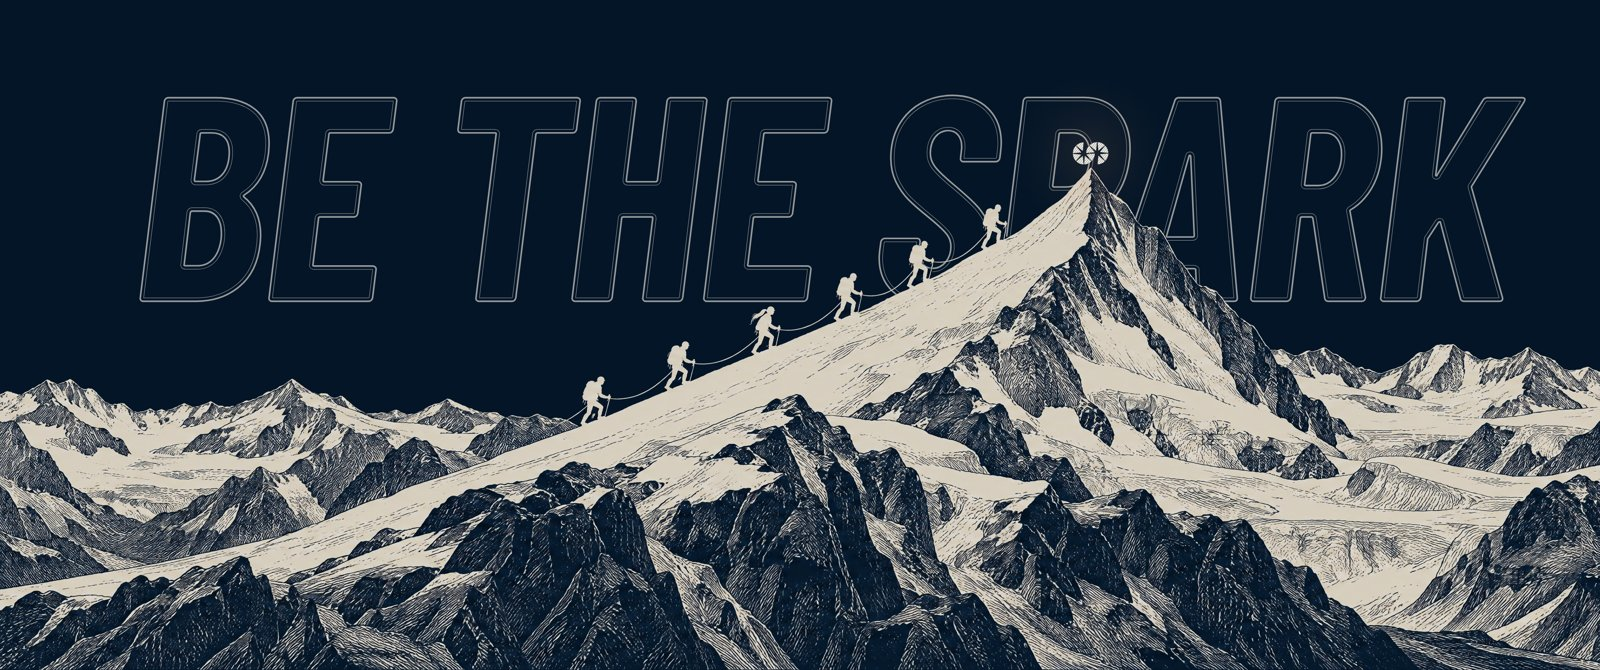
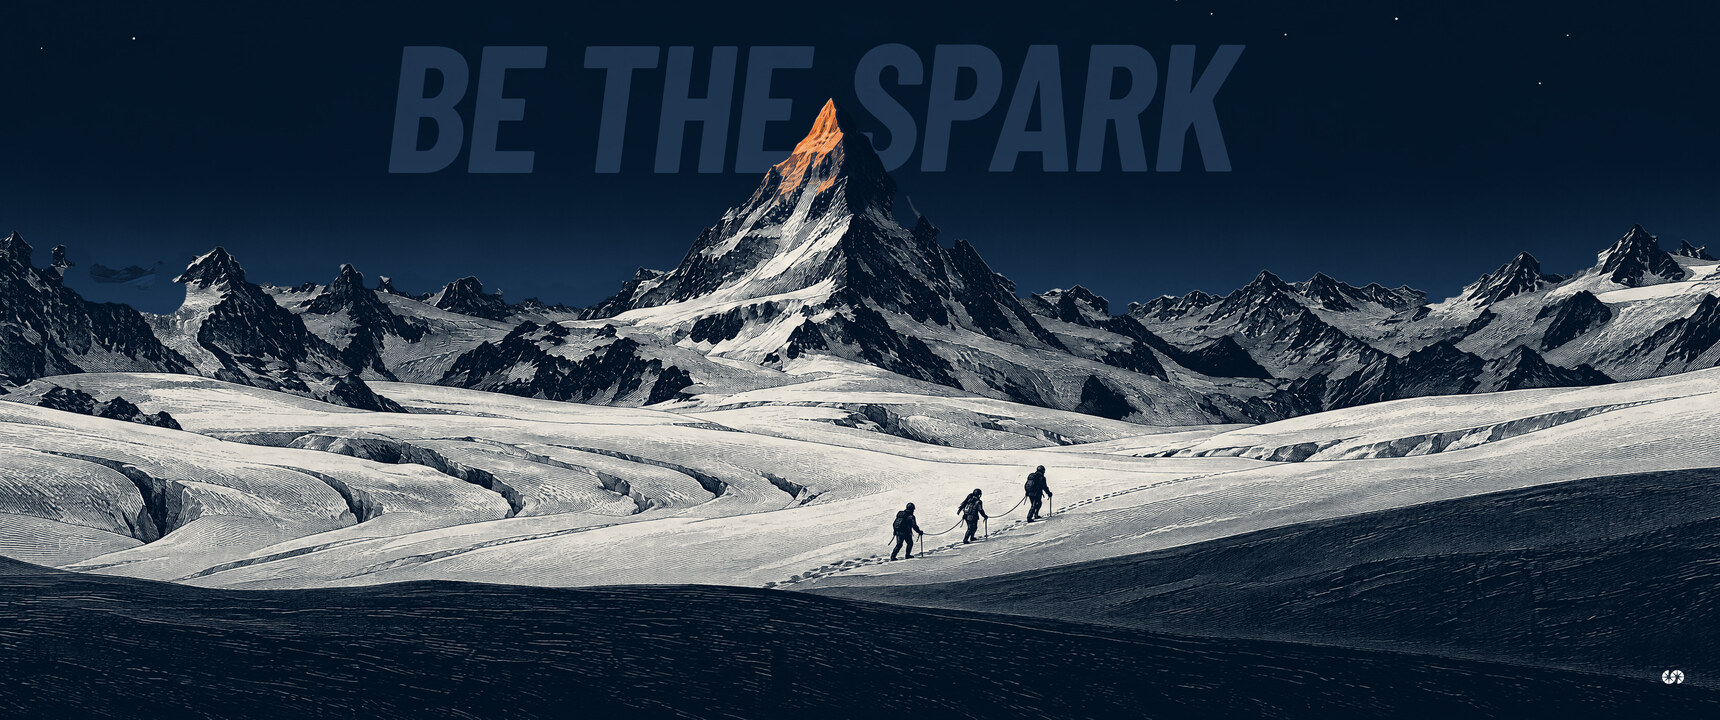
feat: rework the theme on the SparkFabrik design system
Replace the colors with the dark application tokens of the design system: navy surfaces, cream ink and orange as the single accent. Replace the wallpapers with the official BE THE SPARK set in four scenes, with native 21:9, 16:9 and 16:10 versions.

Assisted-by: claude-code/claude-opus-5-5

diff --git a/README.md b/README.md
@@ -1,10 +1,10 @@
 # SF Be the Spark
 
-An [Omarchy](https://omarchy.org/) theme built around the SparkFabrik "Be the Spark" artwork. Six climbers roped together on an engraved alpine ridge climb toward a summit lit by the SparkFabrik symbol, with BE THE SPARK set in outline letters across the sky.
+An [Omarchy](https://omarchy.org/) theme built around the SparkFabrik "Be the Spark" wallpapers. Four night scenes engraved in navy and cream: three climbers roped together, a mountain, and BE THE SPARK printed in the sky one tone lighter. The only orange is the lit summit, the spark.
 
-![Alba wallpaper](docs/alba.jpg)
+![Prima luce wallpaper](docs/prima-luce.jpg)
 
-The desktop uses the SparkFabrik palette on deep navy, with Spark Aquamarine as the accent to match the wallpapers.
+The colors come from the SparkFabrik design system (version v2026.11.11.4): navy surfaces, cream ink and orange as the one warm accent, the same light as the summit.
 
 Requires **Omarchy 4**. The theme ships only `colors.toml` for its colors, so the terminal, the Omarchy shell (bar, notifications, launcher, lock screen), Hyprland borders, Neovim, VS Code, btop and the other themed apps are all generated from the same palette.
 
@@ -24,32 +24,31 @@ omarchy theme update
 
 ## Backgrounds
 
-Three moods of the same scene. Cycle them with `omarchy theme bg next` or pick one from the background switcher.
+Four scenes, approved by SparkFabrik in October and November 2026. Cycle them with `omarchy theme bg next` or pick one from the background switcher.
 
-| File                         | Mood                                    |
-| ---------------------------- | --------------------------------------- |
-| `1-be-the-spark-alba.jpg`    | Alba: cream engraving on navy (default) |
-| `2-be-the-spark-rilievo.jpg` | Rilievo: aquamarine line work           |
-| `3-be-the-spark-retro.jpg`   | Retro: yellow and orange screen print   |
+| File                 | Scene                                                |
+| -------------------- | ---------------------------------------------------- |
+| `1-prima-luce.jpg`   | Prima luce: the roped party crosses a glacier        |
+| `2-primo-raggio.jpg` | Primo raggio: a granite spire above a sea of clouds  |
+| `3-la-cresta.jpg`    | La cresta: the party climbs a long, sharp ridge      |
+| `4-neve-fresca.jpg`  | Neve fresca: a trail in fresh snow among the firs    |
 
-![Rilievo wallpaper](docs/rilievo.jpg)
+![Primo raggio wallpaper](docs/primo-raggio.jpg)
 
-![Retro wallpaper](docs/retro.jpg)
+![La cresta wallpaper](docs/la-cresta.jpg)
 
-The lettering has the same size and position in all three moods, so it stays in place when you switch backgrounds.
+![Neve fresca wallpaper](docs/neve-fresca.jpg)
+
+The default backgrounds are 3440x1440, composed by SparkFabrik for 21:9 ultrawide displays.
 
 ### Other screen ratios
 
-The default backgrounds are 3440x1440, framed for 21:9 ultrawide displays. Omarchy scales the image to fill the screen, so on a 16:9 or 16:10 display the sides are cropped and part of the lettering is lost.
-
-`backgrounds-extra/` has versions composed for those screens, with BE THE above SPARK:
+Omarchy scales the image to fill the screen, so on a 16:9 or 16:10 display the sides of the 21:9 version are cropped. `backgrounds-extra/` has versions composed for those screens:
 
 | Folder                     | Size      | For                              |
 | -------------------------- | --------- | -------------------------------- |
 | `backgrounds-extra/16x9/`  | 3840x2160 | 16:9 displays (1080p, 1440p, 4K) |
 | `backgrounds-extra/16x10/` | 3840x2400 | 16:10 displays and laptops       |
-
-![Rilievo on 16:9](docs/rilievo-16x9.jpg)
 
 To use them, copy a set into your own background folder for this theme and set one:
 
@@ -57,7 +56,7 @@ To use them, copy a set into your own background folder for this theme and set o
 mkdir -p ~/.config/omarchy/backgrounds/sf-be-the-spark
 cp ~/.config/omarchy/themes/sf-be-the-spark/backgrounds-extra/16x9/*.jpg \
    ~/.config/omarchy/backgrounds/sf-be-the-spark/
-omarchy theme bg set ~/.config/omarchy/backgrounds/sf-be-the-spark/1-be-the-spark-alba-16x9.jpg
+omarchy theme bg set ~/.config/omarchy/backgrounds/sf-be-the-spark/1-prima-luce-16x9.jpg
 ```
 
 Files in that folder join the same cycle as the 21:9 ones and survive theme updates.
@@ -89,22 +88,27 @@ Test it with `omarchy-launch-screensaver force` and press any key to dismiss it.
 
 ## Palette
 
-| Role                   | Hex       | Name              |
-| ---------------------- | --------- | ----------------- |
-| Background             | `#031527` | Spark Black       |
-| Foreground             | `#ffffff` | Spark White       |
-| Accent, active borders | `#40c6cf` | Spark Aquamarine  |
-| Selection              | `#027aca` | Spark Light Blue  |
-| Muted                  | `#0c335a` | Spark Blue        |
-| Red                    | `#eb0000` | Spark Red         |
-| Orange                 | `#f36931` | Spark Orange      |
-| Yellow                 | `#f7ad2c` | Spark Yellow      |
-| Green                  | `#008844` | Spark Dark Green  |
-| Bright green           | `#68d366` | Spark Lime        |
-| Magenta                | `#8d1971` | Spark Dark Purple |
-| Bright magenta         | `#cd0089` | Spark Purple      |
+Every color is a token of the SparkFabrik design system, taken from its dark application theme.
 
-Selection uses Light Blue rather than Aquamarine so that white text stays readable on it.
+| Role                     | Hex       | Design system token      |
+| ------------------------ | --------- | ------------------------ |
+| Background               | `#06172b` | Navy (`app-dark-bg`)     |
+| Surface                  | `#0a1f37` | `app-dark-surface`       |
+| Sunk background          | `#041a30` | `app-dark-sunk`          |
+| Foreground               | `#eef2f6` | `app-dark-ink`           |
+| Secondary text           | `#c9d3de` | Mist (`app-dark-ink2`)   |
+| Accent, active border    | `#f36931` | Orange (`app-primary`)   |
+| Inactive border          | `#1d3550` | `app-dark-bar-line`      |
+| Selection                | `#0d2744` | `app-chrome-current`     |
+| Muted                    | `#5d7186` | `app-dark-field-border`  |
+| Red                      | `#ff8a8a` | `app-dark-error`         |
+| Yellow                   | `#f7c56b` | `app-dark-warn`          |
+| Green                    | `#7fdde3` | `app-dark-ok`            |
+| Cyan                     | `#40c6cf` | Aqua                     |
+| Blue                     | `#8cc8f2` | `app-dark-run`           |
+| Magenta                  | `#cd0089` | Spark Purple (legacy)    |
+
+Orange is kept for the active window and the accent, so there is one warm light on screen, like the summit in the wallpapers. The design system has no green: the "ok" status is aqua, and the terminal follows it. It has no magenta either, so magenta keeps the old Spark Purple.
 
 ## What is in here
 
@@ -112,7 +116,7 @@ Selection uses Light Blue rather than Aquamarine so that white text stays readab
 | -------------------- | --------------------------------------------------------------------------------- |
 | `colors.toml`        | The palette. Every generated app config comes from this file                      |
 | `shell.lock.toml`    | Lock screen colors, overriding the `[lock]` section of the generated shell config |
-| `icons.theme`        | GTK icon theme (`Yaru-prussiangreen`)                                             |
+| `icons.theme`        | GTK icon theme (`Yaru`, orange)                                                   |
 | `keyboard.rgb`       | Backlight color for supported keyboards                                           |
 | `preview.jpg`        | Thumbnail in the theme switcher                                                   |
 | `unlock.png`         | Logo for the Plymouth boot screen                                                 |
@@ -127,7 +131,7 @@ To change a color, edit `colors.toml` and run `omarchy theme set sf-be-the-spark
 
 ## Credits
 
-Theme by Stefano Mainardi, built on the SparkFabrik design system. It shares its palette and branding with [Spark Omarchy](https://github.com/stefanomainardi/spark-omarchy).
+Theme by Stefano Mainardi, built on the SparkFabrik design system. It shares its branding with [Spark Omarchy](https://github.com/stefanomainardi/spark-omarchy).
 
 ## License
 
